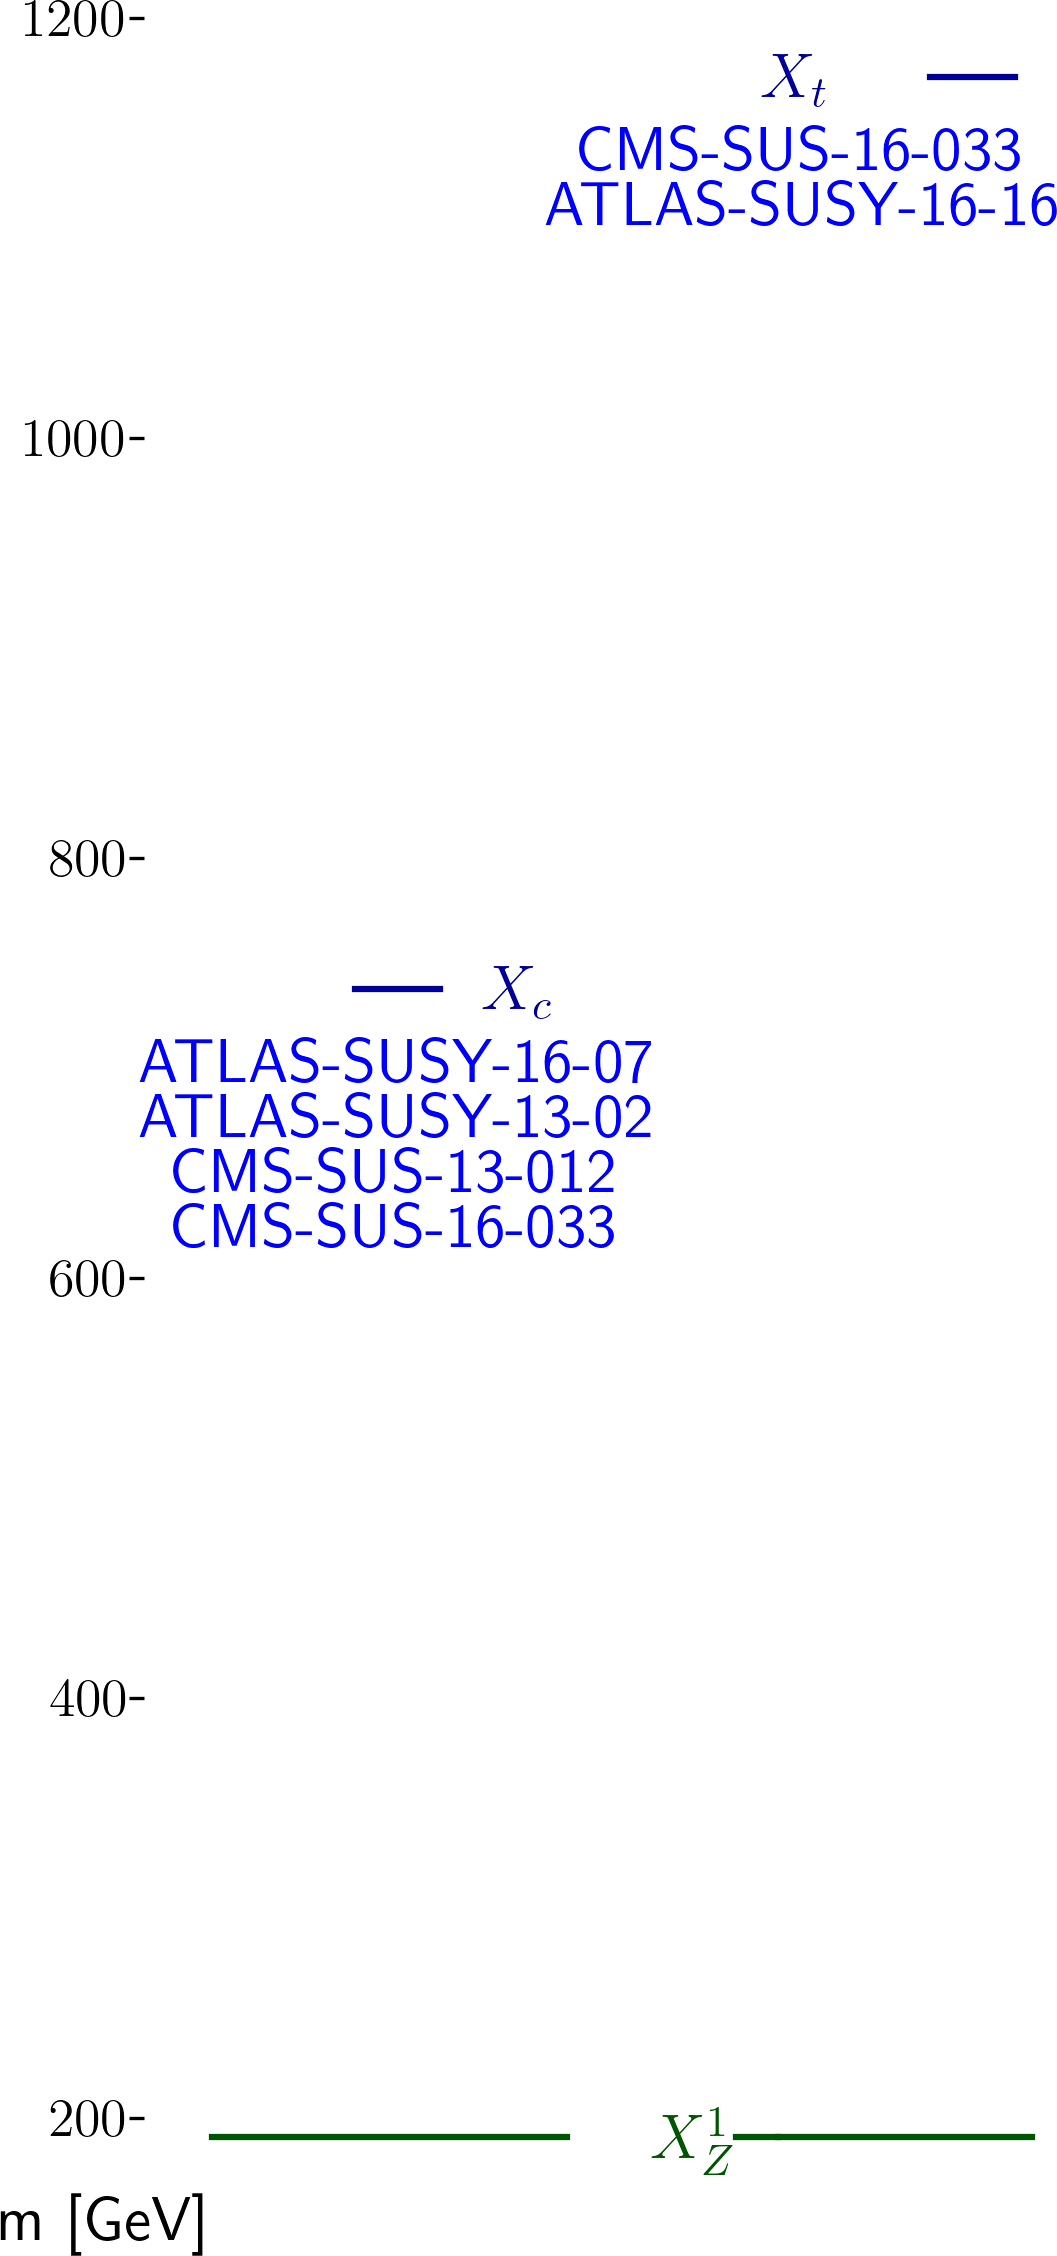
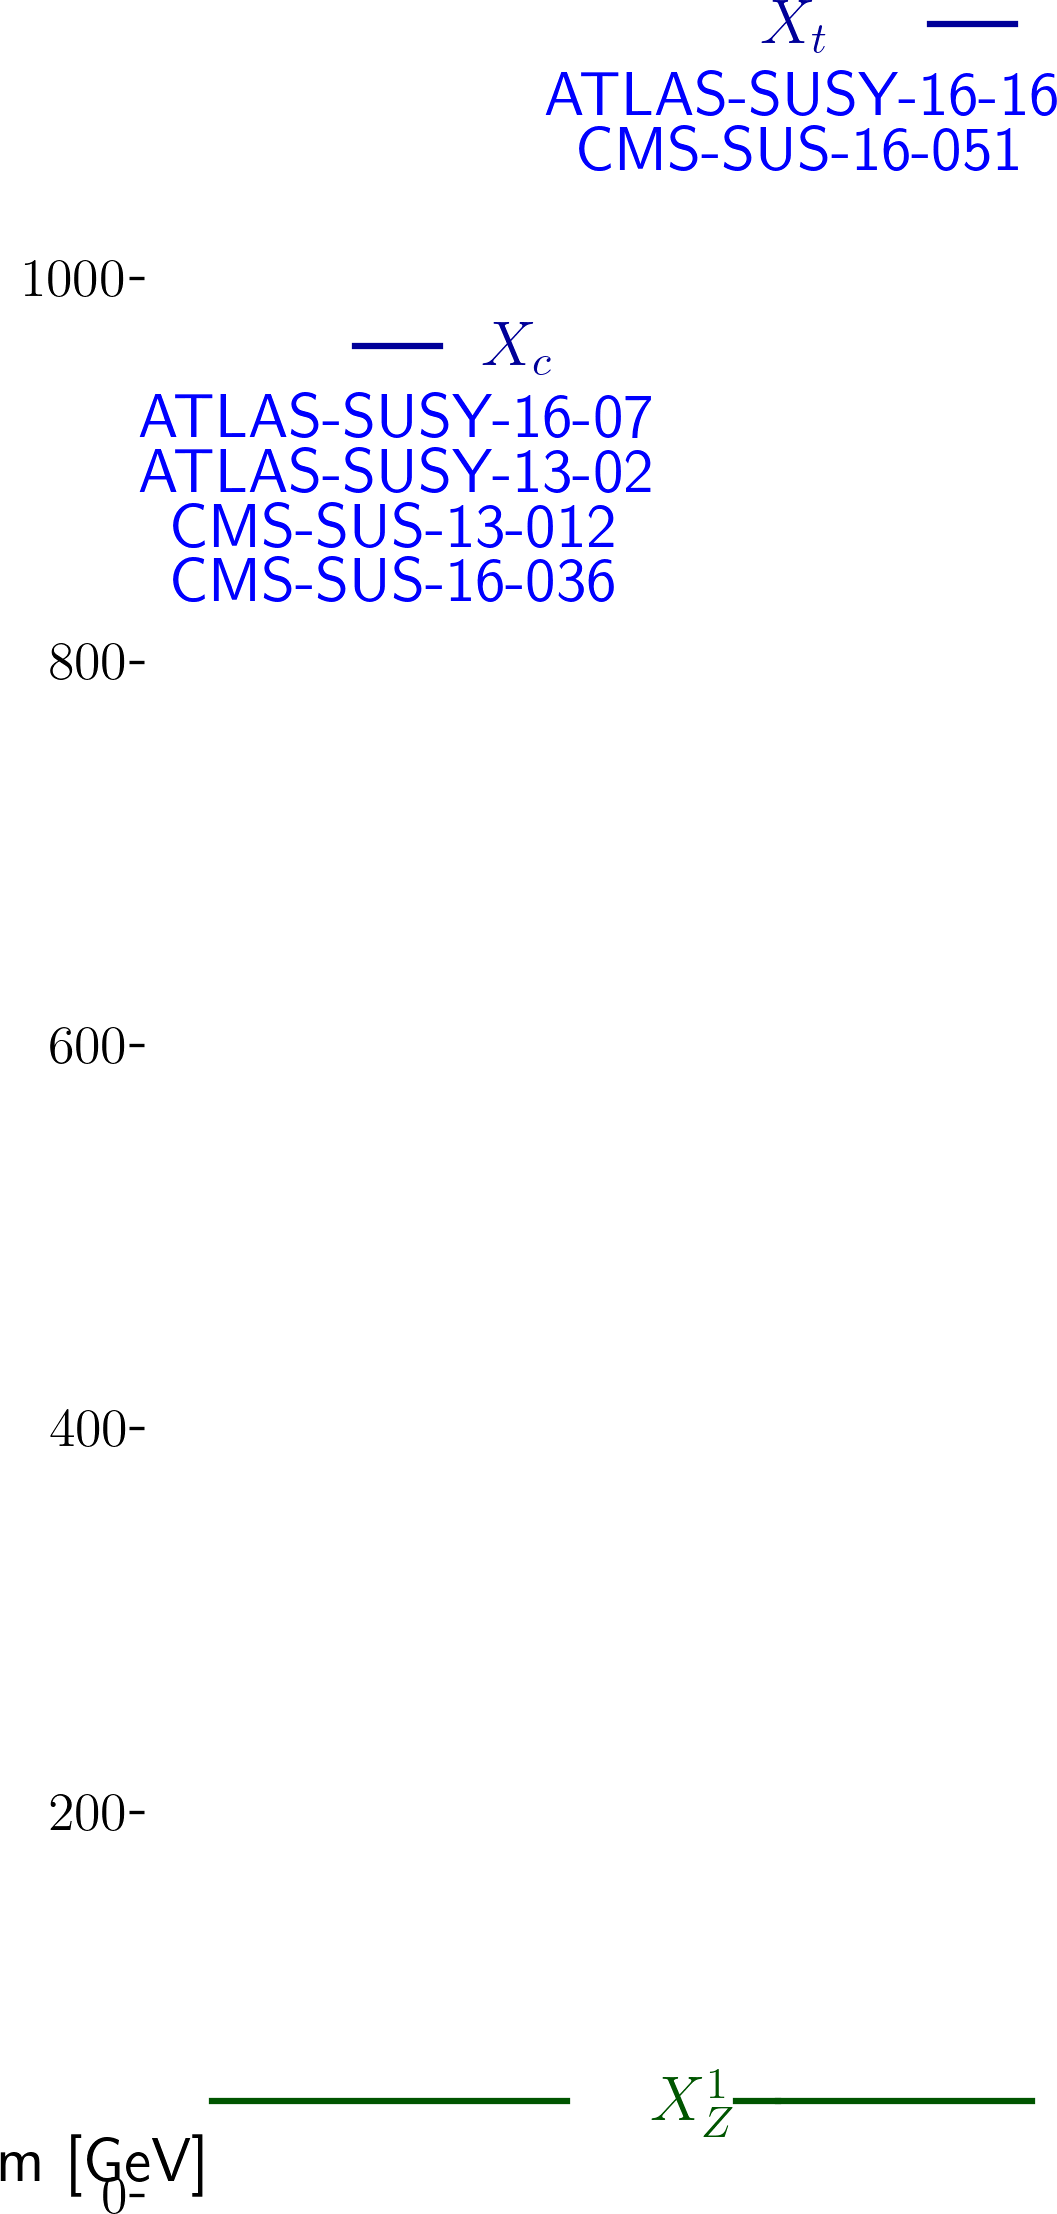
automated update by plotHiscore.py to /scratch-cbe/users/wolfgan.waltenberger/git/smodels.github.io/protomodels

diff --git a/protomodels/2020_PioneerStudy/closure_frozen6/index.html b/protomodels/2020_PioneerStudy/closure_frozen6/index.html
@@ -1,30 +1,31 @@
 <html>
 <body>
 <center>
-<table><td><h1>Current best protomodel: <i>K</i>=4.33</h1><td><img height=60px src=https://smodels.github.io/pics/banner.png></table>
+<table><td><h1>Current best protomodel: <i>K</i>=8.36</h1><td><img height=60px src=https://smodels.github.io/pics/banner.png></table>
 </center>
-<b><a href=./hiscore.slha>ProtoModel</a> <a href=./pmodel.py>(dict)</a> produced with <a href=https://smodels.github.io/docs/Validation124doublefrozen6>database v1.2.4doublefrozen6</a>, combination strategy <a href=./matrix_aggressive.png>aggressive</a> in walker 46 step 154.</b> <i>K</i> plots for: <a href=./M1000022.png?15051990>X<sub>Z</sub><sup>1</sup></a>, <a href=./M1000006.png?15051990>X<sub>t</sub></a>, <a href=./M1000004.png?15051990>X<sub>c</sub></a>. HPD plots for: <a href=./llhd1000006.png?15051990>X<sub>t</sub></a>, <a href=./llhd1000004.png?15051990>X<sub>c</sub></a>. SSM plots for: <a href=./ssm_-1000006_1000006.png?15051990>(x&#772;<sub>t</sub>,X<sub>t</sub>)</a><br>
+<b><a href=./hiscore.slha>ProtoModel</a> <a href=./pmodel.py>(dict)</a> produced with <a href=https://smodels.github.io/docs/Validation124frozen6>database v1.2.4frozen6</a>, combination strategy <a href=./matrix_aggressive.png>aggressive</a> in walker 34 step 953.</b> <i>K</i> plots for: <a href=./M1000022.png?15495130>X<sub>Z</sub><sup>1</sup></a>, <a href=./M1000006.png?15495130>X<sub>t</sub></a>, <a href=./M1000004.png?15495130>X<sub>c</sub></a>. HPD plots for: <a href=./llhd1000006.png?15495130>X<sub>t</sub></a>, <a href=./llhd1000004.png?15495130>X<sub>c</sub></a>. SSM plots for: <a href=./ssm_-1000006_1000006.png?15495130>(x&#772;<sub>t</sub>,X<sub>t</sub>)</a><br>
 <table width=80%>
 <tr><td>
 <br><b>25 predictions available. Highest r values are:</b><br><ul>
-<li><a href=http://cms-results.web.cern.ch/cms-results/public-results/publications/SUS-19-006/index.html>CMS-SUS-19-006</a>:T2 r=1.30, r<sub>exp</sub>=1.30<br>
-<li><a href=http://cms-results.web.cern.ch/cms-results/public-results/publications/SUS-19-006/index.html>CMS-SUS-19-006</a>:T2tt r=1.21, r<sub>exp</sub>=1.21<br>
-<li><a href=http://cms-results.web.cern.ch/cms-results/public-results/publications/SUS-16-050/index.html>CMS-SUS-16-050</a>:T2tt r=1.05, r<sub>exp</sub>=1.05<br>
-<li><a href=http://cms-results.web.cern.ch/cms-results/public-results/publications/SUS-16-049/index.html>CMS-SUS-16-049</a>:T2tt r=1.02, r<sub>exp</sub>=1.02<br>
-<li><a href=http://cms-results.web.cern.ch/cms-results/public-results/publications/SUS-16-033/index.html>CMS-SUS-16-033</a>:T2 r=1.00, r<sub>exp</sub>=1.00<br>
+<li><a href=http://cms-results.web.cern.ch/cms-results/public-results/publications/SUS-19-006/index.html>CMS-SUS-19-006</a>:T2tt r=0.67, r<sub>exp</sub>=1.47<br>
+<li><a href=https://atlas.web.cern.ch/Atlas/GROUPS/PHYSICS/PAPERS/SUSY-2016-26/>ATLAS-SUSY-2016-26</a>:T2cc r=0.65, r<sub>exp</sub>=N/A<br>
+<li><a href=http://cms-results.web.cern.ch/cms-results/public-results/publications/SUS-16-049/index.html>CMS-SUS-16-049</a>:T2tt r=0.63, r<sub>exp</sub>=1.26<br>
+<li><a href=http://cms-results.web.cern.ch/cms-results/public-results/publications/SUS-16-050/index.html>CMS-SUS-16-050</a>:T2tt r=0.62, r<sub>exp</sub>=1.26<br>
+<li><a href=https://atlas.web.cern.ch/Atlas/GROUPS/PHYSICS/PAPERS/SUSY-2016-07/>ATLAS-SUSY-2016-07</a>:T2 r=0.55, r<sub>exp</sub>=0.70<br>
 </ul>
 <td><br><b>K values without analyses: (contribution)</b><br>
 <ul>
-<li> <a href=https://twiki.cern.ch/twiki/bin/view/CMSPublic/PhysicsResultsSUS13012>CMS-SUS-13-012</a>: 5.07 (-16%)
-<li> <a href=https://atlas.web.cern.ch/Atlas/GROUPS/PHYSICS/PAPERS/SUSY-2013-02/>ATLAS-SUSY-2013-02</a>: 4.78 (-10%)
-<li> <a href=http://cms-results.web.cern.ch/cms-results/public-results/publications/SUS-16-033/index.html>CMS-SUS-16-033</a>: 4.20 (3%)
-<li> <a href=https://atlas.web.cern.ch/Atlas/GROUPS/PHYSICS/PAPERS/SUSY-2016-16/>ATLAS-SUSY-2016-16</a>: 2.62 (36%)
-<li> <a href=https://atlas.web.cern.ch/Atlas/GROUPS/PHYSICS/PAPERS/SUSY-2016-07/>ATLAS-SUSY-2016-07</a>: 0.22 (86%)
-<td><img width=600px src=./texdoc.png?1608051990>
-<br><font size=-1>Last updated: Tue Dec 15 18:06:30 2020</font>
+<li> <a href=http://cms-results.web.cern.ch/cms-results/public-results/publications/SUS-16-036/index.html>CMS-SUS-16-036</a>: 0.68 (15%)
+<li> <a href=http://cms-results.web.cern.ch/cms-results/public-results/publications/SUS-16-051/index.html>CMS-SUS-16-051</a>: 0.68 (15%)
+<li> <a href=https://twiki.cern.ch/twiki/bin/view/CMSPublic/PhysicsResultsSUS13012>CMS-SUS-13-012</a>: 0.68 (15%)
+<li> <a href=https://atlas.web.cern.ch/Atlas/GROUPS/PHYSICS/PAPERS/SUSY-2013-02/>ATLAS-SUSY-2013-02</a>: 0.62 (15%)
+<li> <a href=https://atlas.web.cern.ch/Atlas/GROUPS/PHYSICS/PAPERS/SUSY-2016-07/>ATLAS-SUSY-2016-07</a>: -0.57 (18%)
+<li> <a href=https://atlas.web.cern.ch/Atlas/GROUPS/PHYSICS/PAPERS/SUSY-2016-16/>ATLAS-SUSY-2016-16</a>: -1.98 (21%)
+<td><img width=600px src=./texdoc.png?1608495130>
+<br><font size=-1>Last updated: Sun Dec 20 21:12:10 2020</font>
 </table><table style="width:80%">
-<td width=45%><img height=580px src=./ruler.png?1608051990><td width=55%><img height=380px src=./decays.png?1608051990>
-<font size=-3><iframe type="text/html" height="220px" width="100%s" frameborder="0" src="./rawnumbers.html?1608051990"></iframe></font>
+<td width=45%><img height=580px src=./ruler.png?1608495130><td width=55%><img height=380px src=./decays.png?1608495130>
+<font size=-3><iframe type="text/html" height="220px" width="100%s" frameborder="0" src="./rawnumbers.html?1608495130"></iframe></font>
 </table>
 </body>
 </html>

diff --git a/protomodels/2020_PioneerStudy/closure_frozen6/rawnumbers.html b/protomodels/2020_PioneerStudy/closure_frozen6/rawnumbers.html
@@ -1,9 +1,10 @@
 <table>
 <tr><th>Analysis Name</th><th>Type</th><th>Dataset</th><th>Topos</th><th>Observed</th><th>Expected</th><th>Approx &sigma;</th><th>Particles</th><th>Signal</th>
 </tr>
-<tr><td><a href=https://atlas.web.cern.ch/Atlas/GROUPS/PHYSICS/PAPERS/SUSY-2013-02/>ATLAS-SUSY-2013-02</a></td><td>em</td> <td>SR2jm</td><td>T2</td><td>791.45</td><td>760 +/- 50</td><td style="text-align:right">0.6 &sigma;</td><td style="text-align:right">X<sub>c</sub></td><td style="text-align:right">31.45</td></tr>
-<tr><td><a href=https://atlas.web.cern.ch/Atlas/GROUPS/PHYSICS/PAPERS/SUSY-2016-07/>ATLAS-SUSY-2016-07</a></td><td>em</td> <td>2j_Meff_1200</td><td>T2</td><td>614.32</td><td>526 +/- 31</td><td style="text-align:right">2.3 &sigma;</td><td style="text-align:right">X<sub>c</sub></td><td style="text-align:right">88.32</td></tr>
+<tr><td><a href=https://atlas.web.cern.ch/Atlas/GROUPS/PHYSICS/PAPERS/SUSY-2013-02/>ATLAS-SUSY-2013-02</a></td><td>em</td> <td>SR4jt</td><td>T2</td><td>2.73</td><td>2.5 +/- 1</td><td style="text-align:right">0.1 &sigma;</td><td style="text-align:right">X<sub>c</sub></td><td style="text-align:right">0.23</td></tr>
+<tr><td><a href=https://atlas.web.cern.ch/Atlas/GROUPS/PHYSICS/PAPERS/SUSY-2016-07/>ATLAS-SUSY-2016-07</a></td><td>em</td> <td>2j_Meff_1200</td><td>T2</td><td>570.16</td><td>526 +/- 31</td><td style="text-align:right">1.1 &sigma;</td><td style="text-align:right">X<sub>c</sub></td><td style="text-align:right">44.16</td></tr>
 <tr><td><a href=https://atlas.web.cern.ch/Atlas/GROUPS/PHYSICS/PAPERS/SUSY-2016-16/>ATLAS-SUSY-2016-16</a></td><td>em</td> <td>tN_high</td><td>T2tt</td><td>7.73</td><td>3.8 +/- 1</td><td style="text-align:right">1.8 &sigma;</td><td style="text-align:right">X<sub>t</sub></td><td style="text-align:right">3.93</td></tr>
-<tr><td><a href=https://twiki.cern.ch/twiki/bin/view/CMSPublic/PhysicsResultsSUS13012>CMS-SUS-13-012</a></td><td>em</td> <td>8NJetinf_500HT8 ...</td><td>T2</td><td>4.80</td><td>4.8 +/- 2.3</td><td style="text-align:right">0.0 &sigma;</td><td style="text-align:right">X<sub>c</sub></td><td style="text-align:right">0.00</td></tr>
-<tr><td><a href=http://cms-results.web.cern.ch/cms-results/public-results/publications/SUS-16-033/index.html>CMS-SUS-16-033</a></td><td>em</td> <td>SR1_Njet2_Nb0_H ...</td><td>T2, T2tt</td><td>8000.72</td><td>7584 +/- 433</td><td style="text-align:right">0.9 &sigma;</td><td style="text-align:right">X<sub>c</sub>, X<sub>t</sub></td><td style="text-align:right">416.72</td></tr>
+<tr><td><a href=https://twiki.cern.ch/twiki/bin/view/CMSPublic/PhysicsResultsSUS13012>CMS-SUS-13-012</a></td><td>ul</td> <td>-</td><td>T2</td><td> 9.2 fb </td><td> 6.5 fb</td><td style="text-align:right">0.8 &sigma;</td><td style="text-align:right">X<sub>c</sub></td><td style="text-align:right">2.66 fb</td></tr>
+<tr><td><a href=http://cms-results.web.cern.ch/cms-results/public-results/publications/SUS-16-036/index.html>CMS-SUS-16-036</a></td><td>ul</td> <td>-</td><td>T2</td><td> 33.4 fb </td><td> 9.5 fb</td><td style="text-align:right">5.0 &sigma;</td><td style="text-align:right">X<sub>c</sub></td><td style="text-align:right">23.95 fb</td></tr>
+<tr><td><a href=http://cms-results.web.cern.ch/cms-results/public-results/publications/SUS-16-051/index.html>CMS-SUS-16-051</a></td><td>ul</td> <td>-</td><td>T2tt</td><td> 7.3 fb </td><td> 4.7 fb</td><td style="text-align:right">1.1 &sigma;</td><td style="text-align:right">X<sub>t</sub></td><td style="text-align:right">2.62 fb</td></tr>
 </table>

diff --git a/protomodels/2020_PioneerStudy/closure_frozen6/pmodel.py b/protomodels/2020_PioneerStudy/closure_frozen6/pmodel.py
@@ -1,1 +1,1 @@
-{'masses': {1000022: 181.104, 1000004: 727.942, 1000006: 1161.958}, 'ssmultipliers': {(1000022, 1000022): 0.0, (1000004, 1000004): 0.578, (-1000004, 1000004): 0.578, (-1000004, -1000004): 0.578, (1000004, 1000022): 0.578, (-1000004, 1000022): 0.578, (1000006, 1000006): 1.175, (-1000006, 1000006): 1.175, (-1000006, -1000006): 1.175, (1000006, 1000022): 1.175, (-1000006, 1000022): 1.175, (1000004, 1000006): 1.175, (-1000006, 1000004): 1.175, (-1000004, 1000006): 1.175, (-1000006, -1000004): 1.175}, 'decays': {1000022: {}, 1000004: {(1000022, 4): 1.0}, 1000006: {(1000022, 6): 1.0}}, 'timestamp': 'Tue Dec 15 18:06:21 2020', 'Z': 2.807, 'K': 4.327, 'walkerid': 46, 'step': 154, 'codever': '1.0', 'dbver': '1.2.4doublefrozen6'}
+{'masses': {1000022: 39.074, 1000006: 1122.637, 1000004: 954.586}, 'ssmultipliers': {(1000022, 1000022): 0.0, (1000006, 1000006): 1.317, (-1000006, 1000006): 1.258, (-1000006, -1000006): 1.317, (1000006, 1000022): 1.317, (-1000006, 1000022): 1.317, (1000004, 1000004): 1.262, (-1000004, 1000004): 1.262, (-1000004, -1000004): 1.262, (1000004, 1000022): 1.262, (-1000004, 1000022): 1.262, (1000004, 1000006): 1.262, (-1000004, 1000006): 1.262, (-1000006, 1000004): 1.262, (-1000006, -1000004): 1.262}, 'decays': {1000022: {}, 1000006: {(1000022, 6): 1.0}, 1000004: {(1000022, 4): 1.0}}, 'timestamp': 'Sun Dec 20 21:11:49 2020', 'Z': 3.418, 'K': 8.358, 'walkerid': 34, 'step': 953, 'codever': '1.0', 'dbver': '1.2.4frozen6'}
